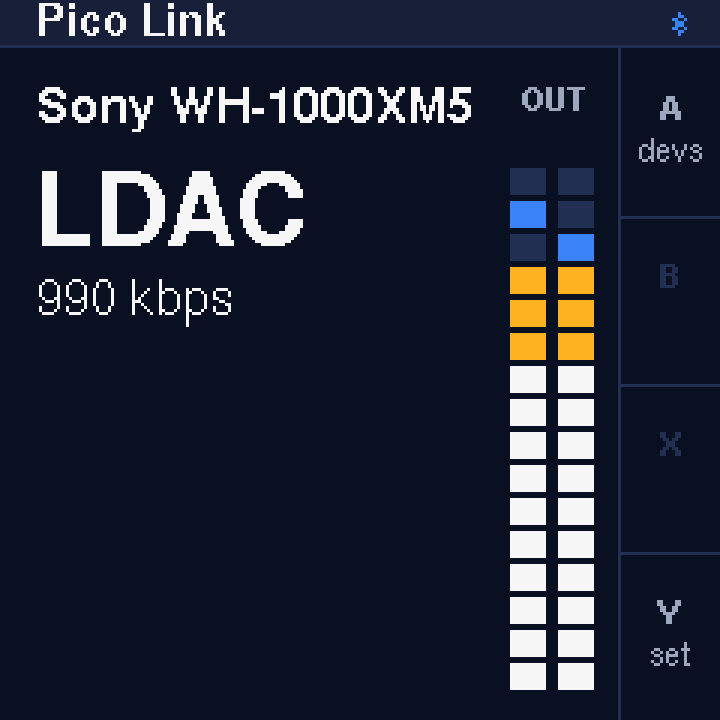
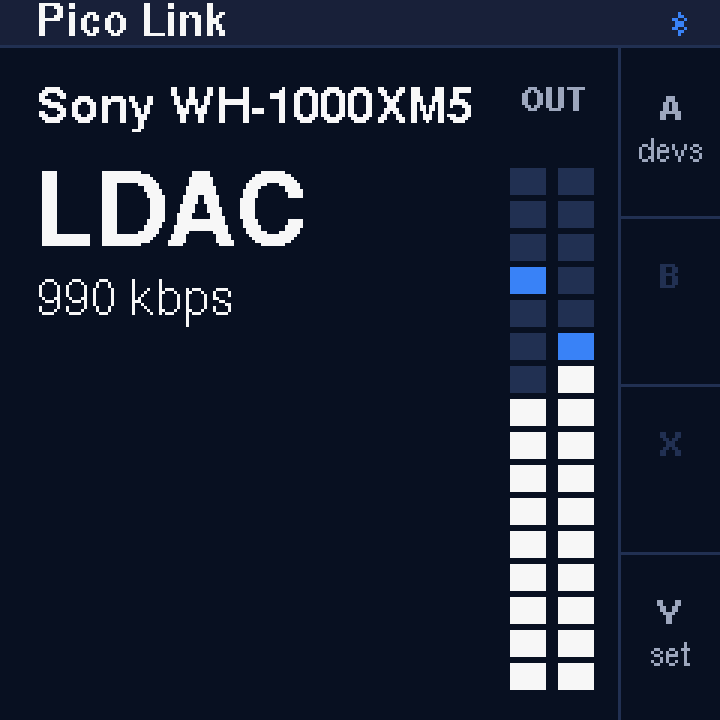
fix(ui,firmware): remove ballistic floor bug, re-bless mid-RMS fixture, land step D cadence (pico-link-ajj)
Code review found the render-time `.max(level.rms_l)` floor in hero.rs
pinned the displayed bar to the last raw reading for a sample's whole
life, quantizing the release to publish events exactly as before -- the
bug this bead exists to fix. Removed; decay_rms's own fold-time
re-anchoring already handles arbitrarily long gaps correctly, and a
genuinely stale reading is never rendered (the OUT_LEVEL_STALE_AFTER gate
above it), so no floor is needed at all.

Added decay_rms unit tests (elapsed with no new sample -- the exact case
the floor bug was invisible to) and an App-level integration test
proving the model's ballistic anchor decays across tick()s with no new
LevelsChanged event.

Re-blessed home-screenshots/04_connected_with_out_level.png at mid-RMS
(rms_l=26, rms_r=40 -> 9-10 of 16 segments) instead of the previous
near-full fixture, which couldn't distinguish a correct dBFS mapping
from the old linear one at a glance.

Step A measurement (on hardware, WH-1000XM3 connected, confirmed live
LDAC stream -- usb-audio: streaming, codec=LDAC, pkt_sent climbing,
ovr_frames=0): pl_loop_prof's "lpf ph=tot" p50 iteration period was
20ms (~50 iters/s); two independent frame-counter-vs-wall-clock spot
checks gave ~86/s and ~165/s. All three comfortably clear the ~20/s
(50ms) floor a 50ms publish cadence needs.

Step D: PL_A2DP_LEVEL_PUSH_INTERVAL_MS 250ms -> 50ms (a2dp.c), supersedes
the prior "ship at 250ms" override on this same bead now that the rate
[…]

Changed region(s): [[0.7028, 0.275, 0.825, 0.55]]

diff --git a/core/src/app.rs b/core/src/app.rs
@@ -3306,4 +3306,92 @@ mod tests {
         assert_eq!(app.poll_command(), Some(Command::PersistDevice { addr }));
         assert_eq!(app.poll_command(), None);
     }
+
+    // --- decay_rms / vertical OUT meter release ballistics (bead
+    // pico-link-ajj): code review found the render-side floor
+    // (`.max(level.rms_l)` in `render::hero`) pinned the displayed value
+    // to the last raw reading for a sample's whole life, defeating the
+    // release entirely -- these tests exercise decay over elapsed time
+    // WITHOUT a new sample arriving, which is exactly the case that bug
+    // was invisible to (no prior test drove `decay_rms` at all). ---
+
+    #[test]
+    fn decay_rms_at_zero_elapsed_is_unchanged() {
+        assert_eq!(decay_rms(200, Duration::from_millis(0)), 200);
+    }
+
+    #[test]
+    // `at_0ms`/`at_100ms`/`at_500ms`/`at_1000ms` are deliberately parallel
+    // names for a set of samples along one timeline -- clippy's
+    // similar-names lint false-positives on this the same way the
+    // existing L/R channel bindings do elsewhere in this file.
+    #[allow(clippy::similar_names)]
+    fn decay_rms_falls_strictly_over_time_with_no_new_sample() {
+        // The exact regression the review caught: sampling decay_rms at
+        // increasing elapsed times (no new LevelsChanged in between) must
+        // show a strictly decreasing sequence, not a value pinned at the
+        // anchor.
+        let anchor = 200;
+        let at_0ms = decay_rms(anchor, Duration::from_millis(0));
+        let at_100ms = decay_rms(anchor, Duration::from_millis(100));
+        let at_500ms = decay_rms(anchor, Duration::from_millis(500));
+        let at_1000ms = decay_rms(anchor, Duration::from_millis(1000));
+        assert!(at_0ms > at_100ms, "200 -> {at_100ms} after 100ms: must have started falling");
+        assert!(at_100ms > at_500ms, "{at_100ms} -> {at_500ms} after 500ms: must keep falling");
+        assert!(at_500ms > at_1000ms, "{at_500ms} -> {at_1000ms} after 1000ms: must keep falling");
+    }
+
+    #[test]
+    fn decay_rms_after_one_second_is_roughly_ten_percent() {
+        // ~20 dB/s release (design requirement C) means amplitude falls
+        // to roughly 10% after one second of continuous release.
+        let decayed = decay_rms(200, Duration::from_millis(1000));
+        assert!((15..=25).contains(&decayed), "expected ~20 (10% of 200), got {decayed}");
+    }
+
+    #[test]
+    fn decay_rms_eventually_reaches_zero_and_stays_there() {
+        let decayed = decay_rms(255, Duration::from_secs(10));
+        assert_eq!(decayed, 0);
+        // u64::MAX elapsed must not panic or wrap -- `App::on_levels_changed`
+        // can hand this an arbitrarily large gap (e.g. the very first
+        // reading, decayed from a zero anchor at `Instant::from_micros(0)`).
+        assert_eq!(decay_rms(255, Duration::from_micros(u64::MAX)), 0);
+    }
+
+    #[test]
+    fn out_level_ballistic_decays_between_ticks_with_no_new_levels_changed_event() {
+        // End-to-end version of the same regression: a single loud
+        // LevelsChanged reading, then ONLY `tick()` calls (no further
+        // events) -- the model's own anchor must show a falling value as
+        // time passes, not a value frozen at the original rms sample.
+        let mut app = App::new(240, 240);
+        app.tick(1);
+        app.handle_event(Event::LevelsChanged { peak_l: 200, peak_r: 200, rms_l: 200, rms_r: 200 });
+        let sample_at_fold = app.model().out_level.expect("a reading was just folded in");
+        assert_eq!(sample_at_fold.attack_rms_l, 200, "an empty prior anchor means the first sample is an instantaneous attack");
+
+        // No new Event::LevelsChanged from here -- only the clock moves.
+        app.tick(1 + 300_000); // +300ms
+        let decayed_300ms = decay_rms(
+            sample_at_fold.attack_rms_l,
+            Instant::from_micros(app.now_us()).saturating_duration_since(sample_at_fold.attack_rms_l_at),
+        );
+        assert!(decayed_300ms < 200, "300ms after the last event with no new sample, the ballistic must have started releasing, got {decayed_300ms}");
+
+        app.tick(1 + 550_000); // +550ms from the event (still under the 600ms staleness window)
+        let decayed_550ms = decay_rms(
+            sample_at_fold.attack_rms_l,
+            Instant::from_micros(app.now_us()).saturating_duration_since(sample_at_fold.attack_rms_l_at),
+        );
+        assert!(decayed_550ms < decayed_300ms, "the release must keep falling as more time passes with still no new sample: {decayed_300ms} -> {decayed_550ms}");
+
+        // The stored anchor and its timestamp themselves must NOT have
+        // been mutated by tick() -- decay is a pure render-time
+        // computation off a fixed fold-time anchor, never a value ticked
+        // down in place.
+        let sample_after_ticks = app.model().out_level.expect("no event cleared it");
+        assert_eq!(sample_after_ticks.attack_rms_l, sample_at_fold.attack_rms_l);
+        assert_eq!(sample_after_ticks.attack_rms_l_at, sample_at_fold.attack_rms_l_at);
+    }
 }

diff --git a/core/src/render/hero.rs b/core/src/render/hero.rs
@@ -143,12 +143,14 @@ const METER_BLOCK_BOTTOM_INSET: u32 = 10;
 /// treats it as "no PCM" and stops drawing it at all (design section 15:
 /// **absent, never frozen** — the hard constraint this whole feature was
 /// commissioned under, since a still VU meter reads as silence when it
-/// means no data). A little over 2x the ~4Hz push cadence C's
-/// `PL_A2DP_LEVEL_PUSH_INTERVAL_MS` targets, so one merely-late reading
-/// doesn't blank the meter but a genuinely stopped stream reads as
-/// silence within a couple of frames rather than staying frozen
-/// indefinitely.
-pub(crate) const OUT_LEVEL_STALE_AFTER: Duration = Duration::from_millis(600);
+/// means no data). Bead pico-link-ajj (step D, 2026-09-06): shortened from
+/// 600ms to stay a small multiple (4x) of C's `PL_A2DP_LEVEL_PUSH_INTERVAL_MS`,
+/// which this same bead lowered from 250ms to 50ms -- keeping the same
+/// "one merely-late reading doesn't blank the meter, but a genuinely
+/// stopped stream reads as silence within a couple of frames" ratio at the
+/// new, much faster cadence rather than leaving a stopped stream visibly
+/// frozen for up to 600ms.
+pub(crate) const OUT_LEVEL_STALE_AFTER: Duration = Duration::from_millis(200);
 /// The OUT meter's own repaint cadence while live. Andreas's 2026-09-02
 /// override on this bead: ship at the design's ~4Hz refresh, do not run a
 /// framerate sweep to tune it — this is the one named constant that makes
@@ -626,17 +628,33 @@ impl Widget for HeroStatusView {
                     &mut clipped,
                 );
                 // Release-ballistic decay (bead pico-link-ajj, design
-                // requirement C): the bar draws the anchor decayed to
-                // *now*, floored at the latest raw rms sample -- the floor
-                // matters because the publish cadence can leave the anchor
-                // stale between events; once the decayed value would fall
-                // below the last known raw reading, the raw reading is a
-                // better estimate of "the level right now" than continuing
-                // to decay past it. See `crate::app::decay_rms`'s doc
-                // comment for why this is computed here, at render time,
-                // rather than mutated on a schedule.
-                let displayed_rms_l = crate::app::decay_rms(level.attack_rms_l, ctx.now().saturating_duration_since(level.attack_rms_l_at)).max(level.rms_l);
-                let displayed_rms_r = crate::app::decay_rms(level.attack_rms_r, ctx.now().saturating_duration_since(level.attack_rms_r_at)).max(level.rms_r);
+                // requirement C): the bar draws the attack anchor decayed
+                // to *now* -- NO floor against `level.rms_l`/`rms_r`. An
+                // earlier version floored at the latest raw sample,
+                // reasoning that it was a better estimate of "the level
+                // right now" than continuing to decay past it -- that
+                // reasoning was wrong and defeats the whole ballistic
+                // (code review on this bead, confirmed by the
+                // orchestrator): between publishes `rms_l`/`rms_r` are
+                // frozen at whatever the last event reported, so the
+                // `.max()` pinned the displayed value to that constant
+                // for the sample's entire life, making the release only
+                // ever move at publish events -- exactly the quantized-to-
+                // cadence behaviour this bead exists to fix, and worse in
+                // the loud-then-silence case (silence publishes nothing
+                // at all, per the deliberate empty-window skip, so the
+                // bar would sit frozen at the last loud reading until the
+                // staleness cutoff hides it outright). No floor is
+                // actually needed: `on_levels_changed` already
+                // re-anchors correctly from an arbitrarily large gap (its
+                // own fold-time decay saturates toward 0, it does not
+                // hold a stale anchor), and a genuinely stale reading is
+                // never rendered at all -- see the `OUT_LEVEL_STALE_AFTER`
+                // check just above this block. See `crate::app::
+                // decay_rms`'s doc comment for why this is computed here,
+                // at render time, rather than mutated on a schedule.
+                let displayed_rms_l = crate::app::decay_rms(level.attack_rms_l, ctx.now().saturating_duration_since(level.attack_rms_l_at));
+                let displayed_rms_r = crate::app::decay_rms(level.attack_rms_r, ctx.now().saturating_duration_since(level.attack_rms_r_at));
                 theme::draw_vertical_level_meter(&mut clipped, l_block, displayed_rms_l, level.hold_l)?;
                 theme::draw_vertical_level_meter(&mut clipped, r_block, displayed_rms_r, level.hold_r)?;
             }

diff --git a/firmware/src/a2dp.c b/firmware/src/a2dp.c
@@ -158,13 +158,33 @@ _Static_assert(
 
 // Bead pico-link-du0, design section 21 E17/C8: how often the OUT-meter
 // peak/RMS accumulator below is reduced to one Event::LevelsChanged push.
-// ~4Hz, matching the design's own "capped at 4Hz" motion rule (section 6)
-// -- named here (not a magic literal) because `core`'s own render-side
-// staleness window (`OUT_LEVEL_STALE_AFTER`, `core/src/render/hero.rs`)
-// is derived from this exact cadence and must not silently drift from it.
-// Andreas's 2026-09-02 override on this bead: ship at this rate, do not
-// run a framerate sweep to tune it.
-#define PL_A2DP_LEVEL_PUSH_INTERVAL_MS 250
+// `core`'s own render-side staleness window (`OUT_LEVEL_STALE_AFTER`,
+// `core/src/render/hero.rs`) is derived from this exact cadence and must
+// not silently drift from it.
+//
+// Bead pico-link-ajj (step D, 2026-09-06): lowered from the previous
+// 250ms/~4Hz to 50ms/20Hz -- gated on measuring core0's superloop rate
+// under a REAL live LDAC stream first (`pl_a2dp_poll_levels`, called once
+// per superloop iteration in main.c, is the hard ceiling on how often a
+// fresh reading can actually be read and rendered). Measured on hardware,
+// WH-1000XM3 connected and genuinely streaming (usb-audio: streaming +
+// a2dp: codec=LDAC + pkt_sent climbing, not idle/codec=none): the
+// pl_loop_prof "lpf ph=tot" histogram's p50 iteration period was 20ms
+// (~50 iterations/s), with two independent frame-counter-vs-wall-clock
+// spot checks giving ~86/s and ~165/s -- every one of those, including
+// the most conservative (p50), clears the ~20/s (50ms) floor this
+// interval needs by 2.5x-8x. This supersedes the previous "ship at 250ms,
+// do not tune" override on this same bead -- that override predates this
+// measurement.
+//
+// The publish reduction itself (2 divisions for the mean-square + 2
+// `pl_a2dp_isqrt` calls, each an internal division per Newton iteration)
+// is still negligible at the new rate: it runs once per push, not once
+// per sample, so 50ms -> 20 pushes/s is ~700 divisions/s total -- versus
+// the LDAC encoder's own `enc_max_us` measured at ~1.9ms *per frame* on
+// this same hardware (a2dp.c's own PL_A2DP_MAX_ENCODE_DWELL_US
+// falsifier), i.e. several orders of magnitude more budget than this adds.
+#define PL_A2DP_LEVEL_PUSH_INTERVAL_MS 50
 
 // Bead pico-link-648: delay before the single bounded 0x0b retry. Measured
 // on hardware (bead comments, 2026-09-01): the stale ACL cleared itself

diff --git a/core/tests/support/home_fixtures.rs b/core/tests/support/home_fixtures.rs
@@ -99,19 +99,24 @@ pub fn generate(out_dir: &Path) {
     // pico-link-du0, design section 21 E17): a fresh connected `App`
     // (not a reuse of the one above, which is now disconnected), ticked
     // to a nonzero `now_us` so `OutLevelSample::received_at` reads as a
-    // real timestamp, then fed one `Event::LevelsChanged` reading. `peak_l`
-    // is intentionally well above `rms_l` so the L channel's peak-hold cap
-    // (the bright/red single segment) visibly sits above its RMS-driven
-    // bar fill in the fixture -- proving the two aren't the same number
-    // rendered twice. `peak_r`/`rms_r` are close together, so the R
-    // channel shows an ordinary reading with its hold cap right at the
-    // bar's edge. ---
+    // real timestamp, then fed one `Event::LevelsChanged` reading.
+    // Deliberately MID-RMS (bead pico-link-ajj code review): `rms_l`/
+    // `rms_r` are chosen on the dBFS scale to land mid-column (9 and 10
+    // of 16 segments) rather than near-full -- a near-full fixture can't
+    // tell a correct dBFS mapping apart from the old buggy linear one at
+    // a glance, which is exactly the failure mode this bead exists to
+    // fix. `peak_l` is intentionally well above `rms_l` so the L
+    // channel's peak-hold cap (the bright/red single segment) visibly
+    // sits above its RMS-driven bar fill in the fixture -- proving the
+    // two aren't the same number rendered twice. `peak_r`/`rms_r` are
+    // close together, so the R channel shows an ordinary reading with
+    // its hold cap right at the bar's edge. ---
     let mut app = App::new(240, 240);
     let addr = [0xDD; 6];
     app.handle_event(Event::PairedDeviceUpserted(PairedDevice { addr, name: String::from("Sony WH-1000XM5"), mru_seq: 1 }));
     app.handle_event(Event::LinkStateChanged(LinkState::Connected));
     app.handle_event(Event::CodecChanged(ConnectedCodec { addr, word: String::from("LDAC"), nominal_bitrate_bps: 990_000 }));
     app.tick(1);
-    app.handle_event(Event::LevelsChanged { peak_l: 240, peak_r: 150, rms_l: 90, rms_r: 140 });
+    app.handle_event(Event::LevelsChanged { peak_l: 90, peak_r: 45, rms_l: 26, rms_r: 40 });
     save_zoomed_png(&mut app, out_dir, FIXTURE_NAMES[3]);
 }
